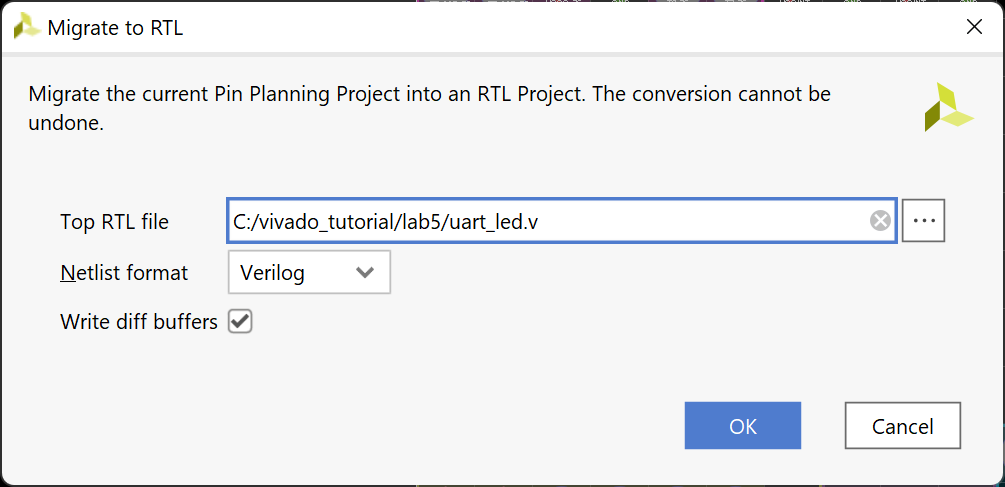
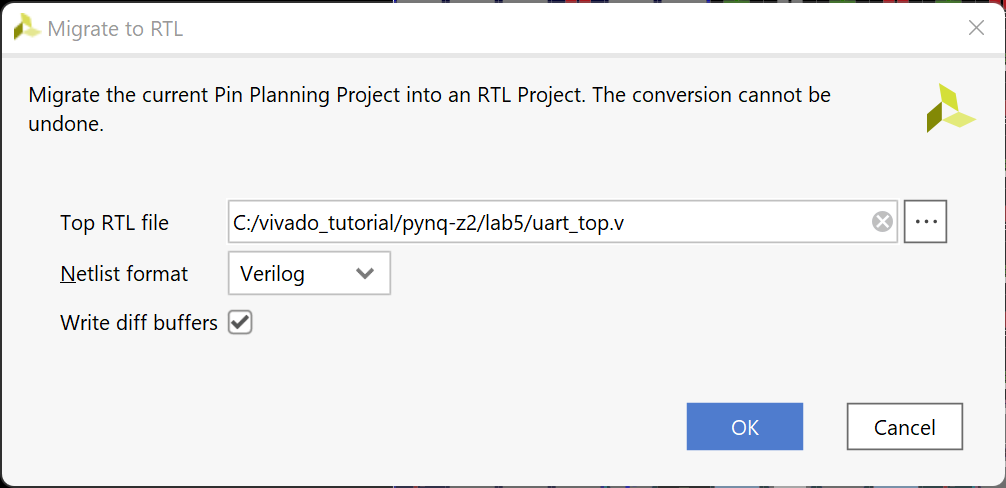
adjust

diff --git a/lab5.md b/lab5.md
@@ -248,13 +248,14 @@ set_property -dict {PACKAGE_PIN E5 IOSTANDARD LVCMOS33} [get_ports {led_pins[7]}
 
 The *Migrate to RTL* form will be displayed with Top RTL file field showing **{TUTORIAL}**/io_1.v entry.
 
-1. Change *io_1.v* to **uart_led.v**, and click **OK**
+1. Change *io_1.v* to **uart_led.v(for PYNQ-Z2)** or **uart_top.v(for Boolean)**, and click **OK**
 
 ![images](./images/lab5/Fig12.png)
 
 <p align = "center">
-<i>Assigning top-level file name</i>
+<i>Assigning top-level file name(for Boolean)</i>
 </p>
+
 
 1. Select the **Hierarchy** tab and notice that the *uart_top.v* file has been added to the project with top-level module name as **ios**. If you double-click the entry, you will see the module name with the ports listing.
 
@@ -271,7 +272,7 @@ The *Migrate to RTL* form will be displayed with Top RTL file field showing **{T
 3. Click on the **Blue Plus** button, then the **Add Files…**
 4. Browse to **{SOURCES}\lab5** and select all .v(led_ctl.v, meta_harden.v, uart_baud_gen.v, uart_led.v, uart_rx.v uart_rx_ctl.v) files and click **OK**.
 5. Click **Finish**.
-6. Using Windows Explorer, browse to **{SOURCES}\\{BOARD}\lab5** and open uart_top.txt using any text editor. Copy the content of it and paste it in uart_top.v (around line 22) in the Vivado project.
+6. Using Windows Explorer, browse to **{SOURCES}\\{BOARD}\lab5** and open uart_top.txt using any text editor. Copy the content of it and paste it in uart_top.vor uart_led.v in the Vivado project.
 
 ---
 
@@ -400,7 +401,7 @@ Notice in the Verilog code, the BAUD_RATE and CLOCK_RATE parameters are defined 
 
    The *Design Timing Summary* report provides a brief worst Setup and Hold slack information and Number of failing endpoints to indicate whether the design has met timing or not.
 
-   Note that there are three timing failures under the hold check.
+   Note that there are two timing failures under the hold check.
 
 4. Click on the link next to *Worst Hold Slack* (WHS) to see the list of failing paths.
 
@@ -414,13 +415,19 @@ Notice in the Verilog code, the BAUD_RATE and CLOCK_RATE parameters are defined 
 
    [![images](./images/lab5/Fig22.png)](./images/lab5/Fig22.png)
 
-   *Failing hold path*
-
+   <p align = "center">
+   <i>Failing hold path</i>
+   </p>
+   
+   
 6. Select *Path 11*, right-click and select **Schematic**.
 
    [![images](./images/lab5/Fig23.png)](./images/lab5/Fig23.png)
 
-   *The schematic of the failing path*
+   <p align = "center">
+   <i>The schematic of the failing path</i>
+   </p>
+
 
 ### Implement and Analyze Timing Summary
 
@@ -459,6 +466,8 @@ Notice in the Verilog code, the BAUD_RATE and CLOCK_RATE parameters are defined 
    The output path delay can be reduced by placing the register in IOB.
 
 5. Apply the constraint by typing the following two commands in the Tcl console.
+
+   ***Hint**: The implemented results are dependent on your own computer, if possible, tunning the output delay towards appropriate value to meet the timing constrains. As our testing shows, normally 0 ~ -4 ns will be a practical value.
 
    ```tcl
    set_output_delay -clock [get_clocks clk_pin] -min -add_delay -4 [get_ports {led_pins[*]}]
